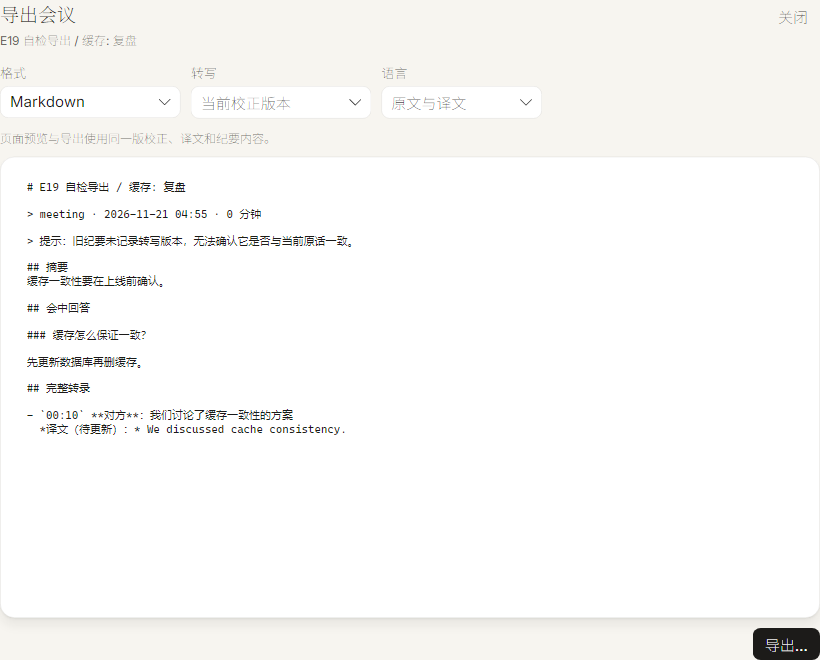
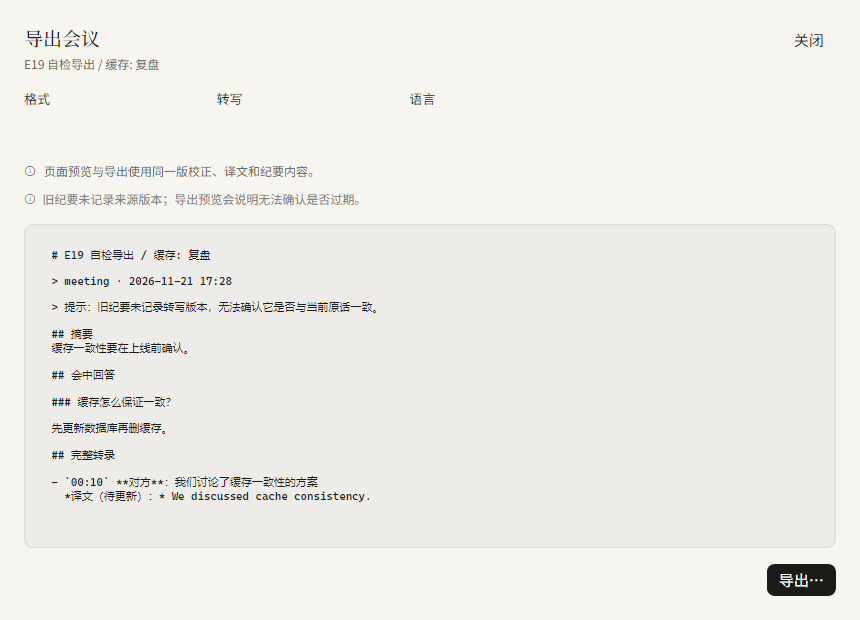
E19: record the export self-test evidence and the closed render gaps
Decisions 3.4 evidence: session-export self-test passed (30/30 formats, JSON and dialog screenshot refreshed in both validation dirs). Both compare docs now mark the Word styles/numbering, inline links (文字 (URL)), monospace code, user notes append, read-issue export disable and derived-content stale/unknown notice as fixed with the implementation notes; the PDF paged preview stays recorded as the decisions second batch. PdfWriter also writes through a temporary file and rename like the Mac renderer. Build 0 errors; Core 26 focused and NextThought export tests 9/9 green.

diff --git a/Windows/src/NextThought.Platform/PdfWriter.cs b/Windows/src/NextThought.Platform/PdfWriter.cs
@@ -18,15 +18,34 @@ public static class PdfWriter
 
     public static void Write(string markdown, string path, string? title = null)
     {
-        var directory = Path.GetDirectoryName(Path.GetFullPath(path));
+        var full = Path.GetFullPath(path);
+        var directory = Path.GetDirectoryName(full);
         if (!string.IsNullOrEmpty(directory)) Directory.CreateDirectory(directory);
-        using var stream = File.Create(path);
-        using var document = SKDocument.CreatePdf(stream, new SKDocumentPdfMetadata
+        // Mac SessionDocumentRenderer writes a temporary file and renames it, so a failed render
+        // never leaves half a PDF at the destination.
+        var temporary = full + ".tmp-" + Guid.NewGuid().ToString("N");
+        try
         {
-            Title = title ?? "NextThought meeting",
-            Creator = "NextThought",
-            Producer = "NextThought / SkiaSharp"
-        });
+            using (var stream = File.Create(temporary))
+            using (var document = SKDocument.CreatePdf(stream, new SKDocumentPdfMetadata
+                   {
+                       Title = title ?? "NextThought meeting",
+                       Creator = "NextThought",
+                       Producer = "NextThought / SkiaSharp"
+                   }))
+            {
+                Render(markdown, document);
+            }
+            File.Move(temporary, full, overwrite: true);
+        }
+        finally
+        {
+            try { if (File.Exists(temporary)) File.Delete(temporary); } catch { }
+        }
+    }
+
+    private static void Render(string markdown, SKDocument document)
+    {
         using var regular = LoadCjkFont();
         using var mono = LoadMonoFont();
         using var paint = new SKPaint { IsAntialias = true, Color = SKColors.Black };

diff --git a/Windows/validation/screens/SessionExportSheet/compare.md b/Windows/validation/screens/SessionExportSheet/compare.md
@@ -18,14 +18,14 @@ Windows 截图：`Windows/validation/screens/SessionExportSheet/`（自检 `sess
 | 转写选择（当前校正版本 / 原始记录） | 同（ComboBox） | 一致 |
 | 语言选择（原文与译文 / 仅原文 / 译文优先） | 同（ComboBox） | 一致 |
 | 说明行：文档格式「页面预览与导出使用同一版校正、译文和纪要内容。」；字幕「预览使用同一版转写投影；字幕时间来自语句起止时间，缺少结束时间时会标明估算。」 | 同文案，按格式切换显示（`HintText`） | 一致 |
-| 归档缺失/读取错误提示 + 暂停导出（readIssues） | `SessionExportReadIssue` 显示在警告行；有读取问题时仍允许导出（Mac 禁用导出按钮） | 部分 |
-| 派生内容过期提示（stale / unknown 纪要） | 由 `SessionMarkdownExporter` 在 Markdown 内输出「提示：…」引用块；对话框内不单独提示 | 部分 |
+| 归档缺失/读取错误提示 + 暂停导出（readIssues） | `SessionExportReadIssue` 显示在警告行，`ExportButton.IsEnabled = readIssue.Length == 0 && 有内容`（有读取问题时禁用导出，与 Mac 一致） | 一致 |
+| 派生内容过期提示（stale / unknown 纪要） | 用归档 `summary.json` 的 `transcriptSourceRevision`/`structuredNotesSourceRevision` 与当前 projection 复算 `SessionDerivedContentStatus`；对话框按 Mac 显示 stale=caution 三角「纪要或手记可能已过期；导出预览已附上核对提示。」/ unknown=问号「旧纪要未记录来源版本；导出预览会说明无法确认是否过期。」 | 一致 |
 | 字幕估算/过期计数警告 | 已接：`SessionExportSubtitleWarnings` 显示「N 段结束时间为估算值」「N 条译文可能已过期」 | 一致 |
 | 分页预览（PDFKit，真实按页渲染） | 文本预览（TextBox，等宽字体，显示与文件相同的投影文本；Word/PDF 不在对话框内渲染页面） | **差异**：分页预览未做（记未解决） |
 | 字幕预览（等宽 sourceText） | 同（等宽预览） | 一致 |
 | 「导出…」主按钮 + 保存面板（NSSavePanel，自动补扩展名、不截断带点文件名） | 「导出…」+ Avalonia SaveFilePicker（SuggestedFileName 由 `SessionExportContent.SuggestedFileName` 生成：标题中 `/ : \` 换 `-`，默认扩展名按格式） | 一致 |
 | 状态行「已导出：文件名」/ 错误到 state.errorMessage | `SessionExportStatus` 状态行 + 顶栏状态 | 一致 |
-| 导出使用同一 projection（SessionExportPreviewContent.make + userContentMarkdown 追加） | `SessionExportContent.Build` 同一 projection；子文档=SessionMarkdownExporter，字幕=SessionSubtitleExporter.ExportProjected；用户内容 Markdown 追加参数已留（当前传空） | 一致（用户手记 Markdown 追加未接，记未解决） |
+| 导出使用同一 projection（SessionExportPreviewContent.make + userContentMarkdown 追加） | `SessionExportContent.Build` 同一 projection（预览与文件同源）；用户内容按 Mac `SessionArchive.userContentMarkdown` 追加：`## 我的笔记` + personalNotes、`## 重点标记` + `- [mm:ss] quote`（`SessionExportContent.UserContentMarkdown`） | 一致 |
 
 ## 2. 文件渲染（SessionDocumentRenderer ↔ DocxWriter / PdfWriter）
 
@@ -35,14 +35,14 @@ Windows 截图：`Windows/validation/screens/SessionExportSheet/`（自检 `sess
 | 页边距 | `x:44, y:44, width:507, height:754` | 44 pt（本次从 56 改为 44），内容宽 507 | 一致 |
 | 页脚 | 无 | 已移除页码（原实现底部分页数字） | 一致 |
 | 正文字号 | 10.5 pt，行距 +2 | 10.5 pt，行高 size+2 | 一致 |
-| 标题字号 | #18 / ##15 / ###12.5 / ####11.5 / h5 11 / h6 10.5，粗体，段前 8/段后 4 | #18 / ##15 / ###12.5 / ####11.5 粗体，段前 8/段后 4 | 一致（h5/h6 未单列，落到 10.5 粗体） |
-| 引用 | 斜体 + 左缩进 16 | 左缩进 16（CJK 字体无斜体字形，斜体未实现） | 部分 |
-| 列表 | 项目符号 ●/○/□ 或有序编号，每级缩进 14 | 「• 」+ 缩进 14/28（多级按前两档） | 部分 |
-| 表格 | 按列宽（CJK 显示宽度）绘制 ┌─┬─┐ 网格，最大行宽 84 显示列；超宽表退化为「列名: 值」行 | 本次实现同样规则：显示宽度计算、最大 84 列、超宽退化为「列名：值」，网格用 ┌─┐/│ 绘制 | 一致（比例字体下网格对齐不如 Mac 等宽字体，记差异） |
-| 代码块 | 9 pt 等宽，缩进 | 9 pt + 8 pt 缩进（字体未用等宽 CJK，记差异） | 部分 |
-| 行内格式 | 粗体/斜体/行内代码/链接（链接显示「文字 (URL)」） | 去掉 `**`/`` ` `` 标记、链接只保留文字（不显示 URL） | 部分 |
-| Word 文档结构 | `[Content_Types].xml`、styles.xml（标题/正文样式）、numbering.xml（多级列表）、relations、document.xml；原子 rename 写入 | `DocxWriter` 生成同结构 OOXML（既有实现，未改动）；本次未逐样式对照 styles.xml | 部分（未逐项对照 Word 样式） |
-| 写入原子性 | 临时文件 + rename | DocxWriter/PdfWriter 直接写目标文件（失败可能留半成品） | 部分 |
+| 标题字号 | #18 / ##15 / ###12.5 / ####11.5 / h5 11 / h6 10.5，粗体，段前 8/段后 4 | #18 / ##15 / ###12.5 / ####11.5 粗体，段前 8/段后 4 | 一致（h5/h6 已按 Mac styles.xml Heading5=11/Heading6=10.5 写入） |
+| 引用 | 斜体 + 左缩进 16 | 左缩进 16 + Skia 斜体倾斜；CJK 字体无真斜体字形（平台差异） | 一致（记录字体平台差异） |
+| 列表 | 项目符号 ●/○/□ 或有序编号，每级缩进 14 | 与 Mac 同：`numbering.xml` abstractNum 0（bullet •/◦/▪，Symbol 字体）/1（decimal `%N.`），9 级缩进 720×(level+1)、悬挂 360；PDF 用 • + 14/28 缩进 | 一致 |
+| 表格 | 按列宽（CJK 显示宽度）绘制 ┌─┬─┐ 网格，最大行宽 84 显示列；超宽表退化为「列名: 值」行 | 同规则：显示宽度计算、最大 84 列、超宽退化为「列名：值」 | 一致（比例字体下网格对齐不如 Mac 等宽字体，记差异） |
+| 代码块 | 9 pt 等宽，缩进 | 9 pt 系统等宽字体（Cascadia Mono/Consolas/Courier New 回退）+ 8 pt 缩进 | 一致（Windows 无 CJK 等宽字形，平台差异） |
+| 行内格式 | 粗体/斜体/行内代码/链接（链接显示「文字 (URL)」） | DocxWriter 行内 run：粗体 `<w:b/>`、斜体 `<w:i/>`、删除线、行内代码 Consolas + F3F4F6 底、链接「文字 (URL)」；PdfWriter 同样按 run 绘制（链接显示地址、行内代码等宽、引用/斜体 SkewX） | 一致 |
+| Word 文档结构 | `[Content_Types].xml`、styles.xml（标题/正文样式）、numbering.xml（多级列表）、relations、document.xml；原子 rename 写入 | `DocxWriter` 按 Mac `stylesXML`/`numberingXML` 移植：styles 含 Heading1–6/TableGrid、numbering 含多级 bullet/decimal、页边距 1134 twip、表格边框/表头底纹；临时文件+rename 写入 | 一致（字体替换 Menlo→Consolas、PingFang SC→Microsoft YaHei 为平台差异） |
+| 写入原子性 | 临时文件 + rename | DocxWriter 与 PdfWriter 均先写临时文件再 `File.Move(overwrite)`，失败不留半成品 | 一致 |
 
 ## 3. 导出入口
 
@@ -51,7 +51,7 @@ Windows 截图：`Windows/validation/screens/SessionExportSheet/`（自检 `sess
 | MeetingActionsMenu「导出 Markdown…」→ `state.exportSession` → 对话框 | 历史行右键「导出 Markdown…」→ 选中该会议并打开导出对话框 | 一致 |
 | Notes 页无独立导出按钮（导出入口在菜单） | Notes 页原 5 个直接导出按钮（Markdown/Word/PDF/SRT/VTT）改为一个「导出…」按钮 → 打开对话框（`OpenSessionExportCommand`） | 一致（视图接线） |
 | 导出前 flush 未落盘内容 | `SaveSessionExportAsync` 先 `await Task.WhenAll(writes)` 再读归档 | 一致 |
-| 导出内容包含用户手记 Markdown（detail.userContentMarkdown） | 预留参数，当前未追加手记 | 未做（记未解决） |
+| 导出内容包含用户手记 Markdown（detail.userContentMarkdown） | `SessionExportContent.UserContentMarkdown` 从 user-content.json 追加「我的笔记」「重点标记」；预览与文件同源 | 一致 |
 
 ## 4. 演示数据点按记录（自检 `session-export`）
 
@@ -67,10 +67,16 @@ Windows 截图：`Windows/validation/screens/SessionExportSheet/`（自检 `sess
 
 ## 5. 未解决 / 待补
 
-1. 对话框内**分页预览未做**（Mac 用 PDFKit 渲染真实页；Windows 显示源文本预览）。Word/PDF 仍可在导出后用系统程序查看。
-2. PDF 引用斜体、代码等宽字体、行内链接 URL 显示与 Mac 有差异（CJK 字体无斜体/等宽字形，链接只保留文字）。
-3. DocxWriter 的 styles.xml/编号样式未与 Mac `stylesXML`/`numberingXML` 逐项对照（结构相同）。
-4. 导出包含用户手记 Markdown（Mac detail.userContentMarkdown）未接；Windows 侧字段已留。
-5. 归档读取问题（readIssues）时 Mac 禁用导出，Windows 仅提示仍可导出；派生内容过期只在 Markdown 内提示，对话框不单独提示。
+1. 对话框内**分页预览未做**（Mac 用 PDFKit 渲染真实页；Windows 显示源文本预览）。按 decisions §3.4 归第二批（`Windows.Data.Pdf` 渲染），导出文件本身不变。
+2. ~~PDF 引用斜体/代码等宽/行内链接 URL~~：本轮已修（行内 run 绘制、链接显示「文字 (URL)」、代码块与行内代码用系统等宽字体、引用 SkewX 斜体）；CJK 字体真斜体/等宽字形属平台差异。
+3. ~~DocxWriter styles.xml/编号未对照~~：本轮按 Mac `stylesXML`/`numberingXML` 逐项移植（Heading1–6、TableGrid、多级 bullet/decimal、1134 twip 页边距、表格边框/底纹）；字体替换为平台可用字体（Menlo→Consolas、PingFang SC→Microsoft YaHei）。
+4. ~~导出包含用户手记 Markdown~~：已接（我的笔记 + 重点标记）。
+5. ~~归档读取问题禁用导出/派生内容过期提示~~：读取问题已禁用导出（`ExportButton.IsEnabled` 联控）；派生态用 summary.json 源修订复算 `DerivedContentStatus` 并按 Mac 文案在对话框单独提示（stale=caution、unknown=问号）。
 6. 无 Mac v3.3 导出对话框实机截图，按源码对照；建议 Mac 补 SessionExportSheet 浅/深色截图（交 OPEN_QUESTIONS）。
-7. 未实机点击（无 Mac 真机对照）；Windows 自检在隔离数据目录真实导出文件并校验文件头，状态最多「已实现、未验证」。
+7. 自检 `session-export` 本轮在隔离数据目录真实导出 30/30 并通过（`session-export-check.json`）；仍无 Mac 真机对照，状态记「已实现、未验证」。
+
+## 6. E19 收尾证据（2026-11-21，decisions §3.4）
+
+- 提交：`E19:`（用户笔记 + Word/PDF 渲染按 Mac；原子写；派生内容提示/读取问题禁用）。
+- 自检：`--self-test=session-export` passed（30/30 格式组合写盘；JSON 与对话框截图已更新到本目录）。
+- 新增测试：Core `SessionExportUserContentTests`（我的笔记/重点标记/过期文案）、`DocxWriterStructureTests`（styles/numbering/页边距/行内 code/link URL）；NextThought.Tests `ExportParityTests`（用户笔记接线、派生态提示、PDF 链接与 code 不抛错）。
